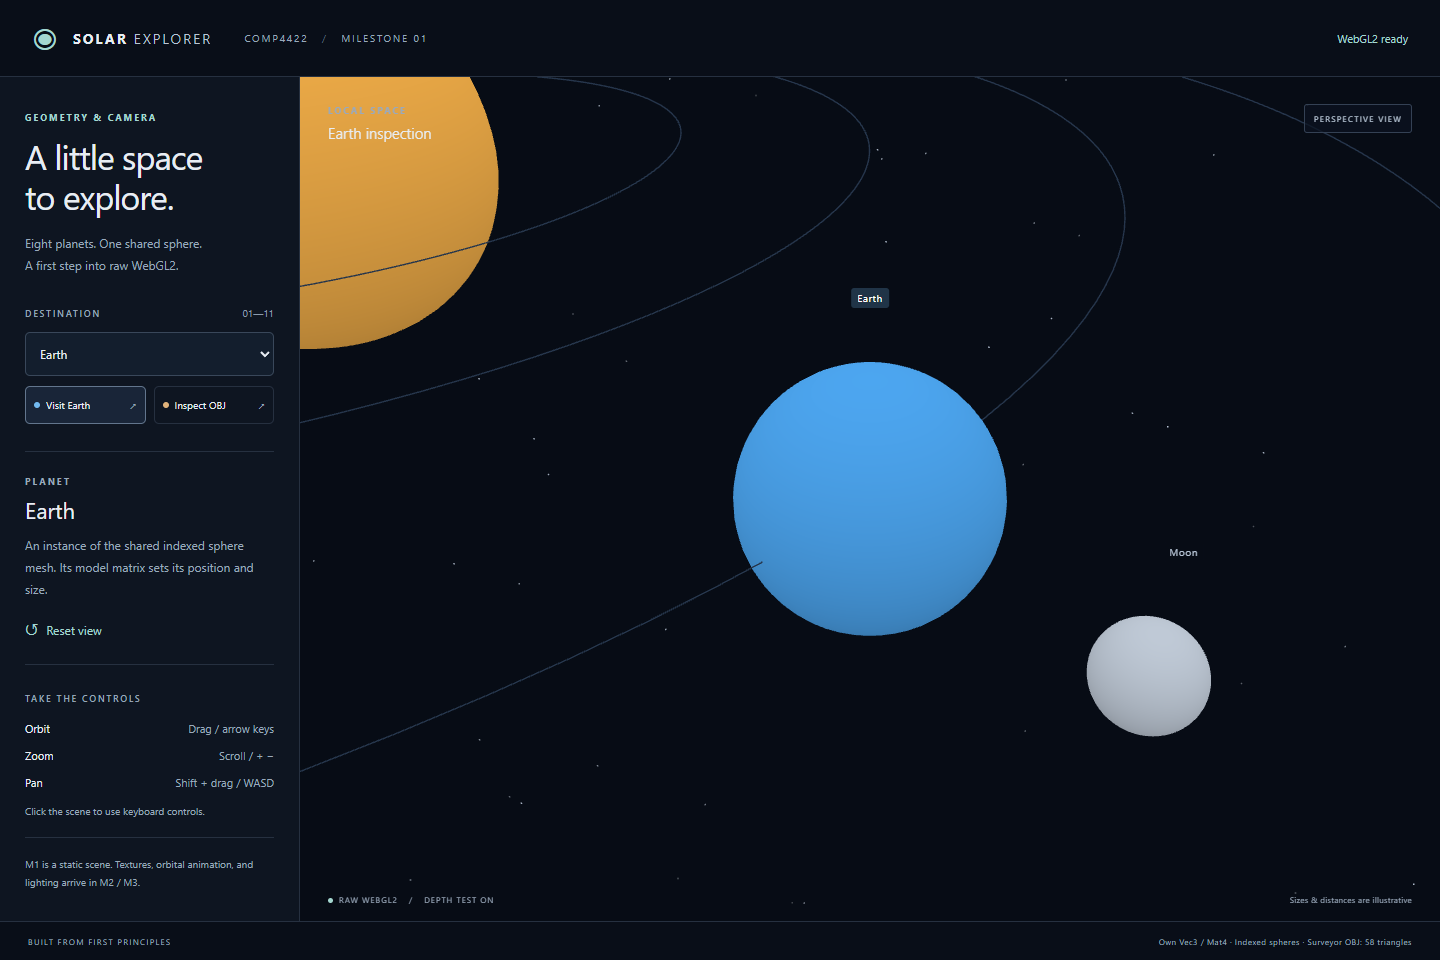
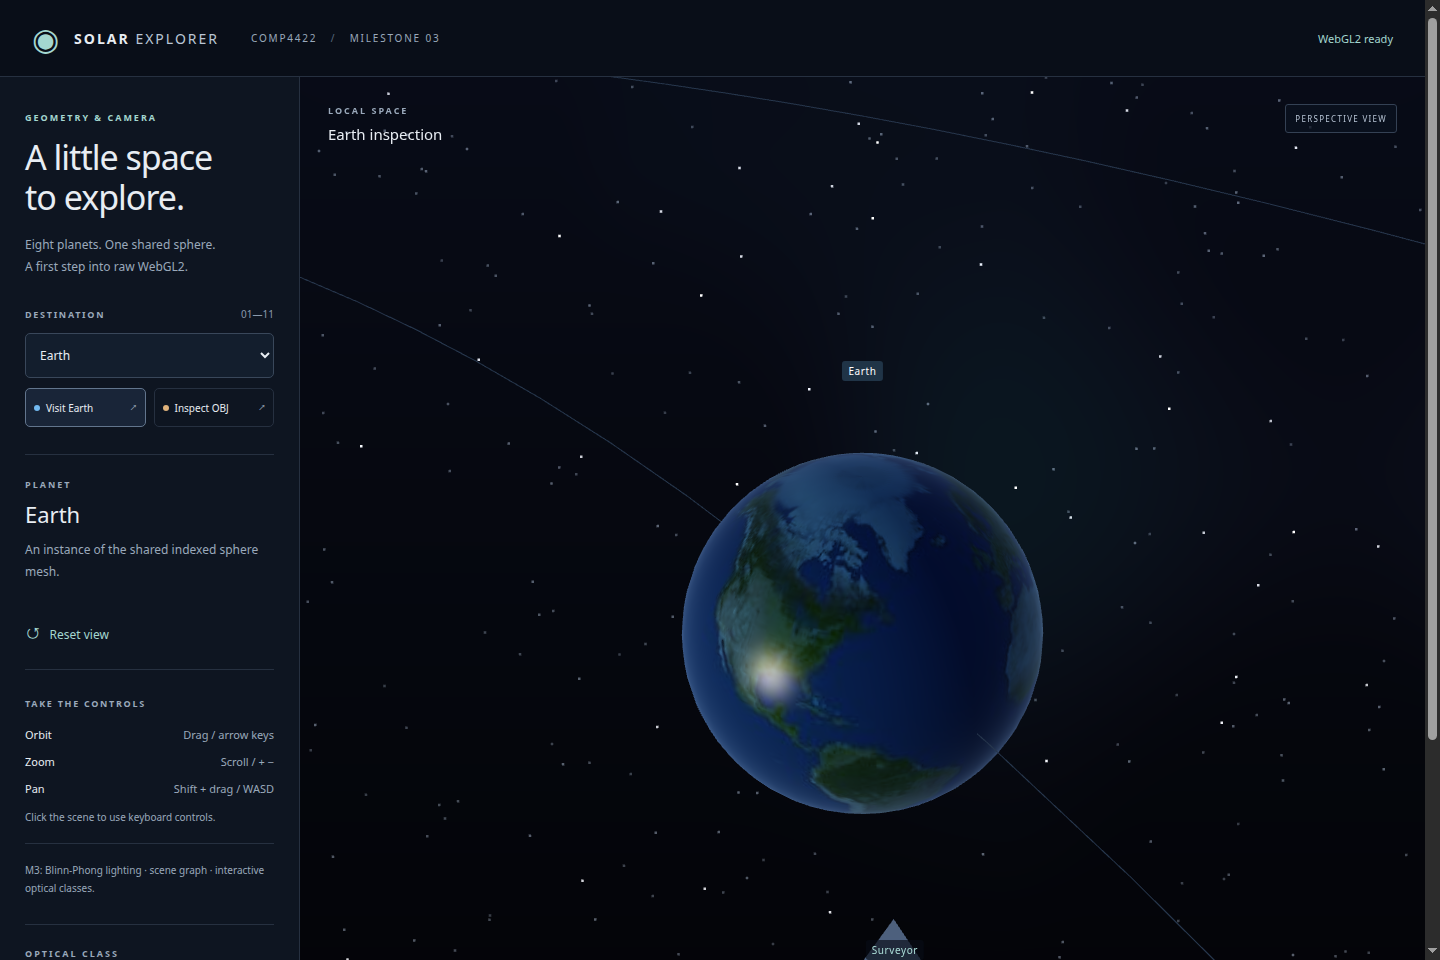
M3 final changes

diff --git a/index.html b/index.html
@@ -6,7 +6,7 @@
   <meta name="viewport" content="width=device-width, initial-scale=1">
   <meta name="theme-color" content="#090e18">
   <meta name="description" content="A raw WebGL2 solar-system explorer for COMP4422 milestone one.">
-  <title>Solar Explorer · COMP4422 M1</title>
+  <title>Solar Explorer · COMP4422 M3</title>
   <link rel="icon" href="/favicon.svg" type="image/svg+xml">
   <link rel="stylesheet" href="/styles.css">
   <script type="module" src="/src/main.js"></script>

diff --git a/README.md b/README.md
@@ -1,6 +1,6 @@
-# Solar Explorer — COMP4422 M1
+# Solar Explorer — COMP4422 M3
 
-An interactive, **static** solar-system scene built with JavaScript and **raw WebGL2**. No rendering framework, matrix library, external JavaScript package, or build step is used.
+An interactive **animated** solar-system scene built with JavaScript and **raw WebGL2**. No rendering framework, matrix library, external JavaScript package, or build step is used.
 
 ## Run
 
